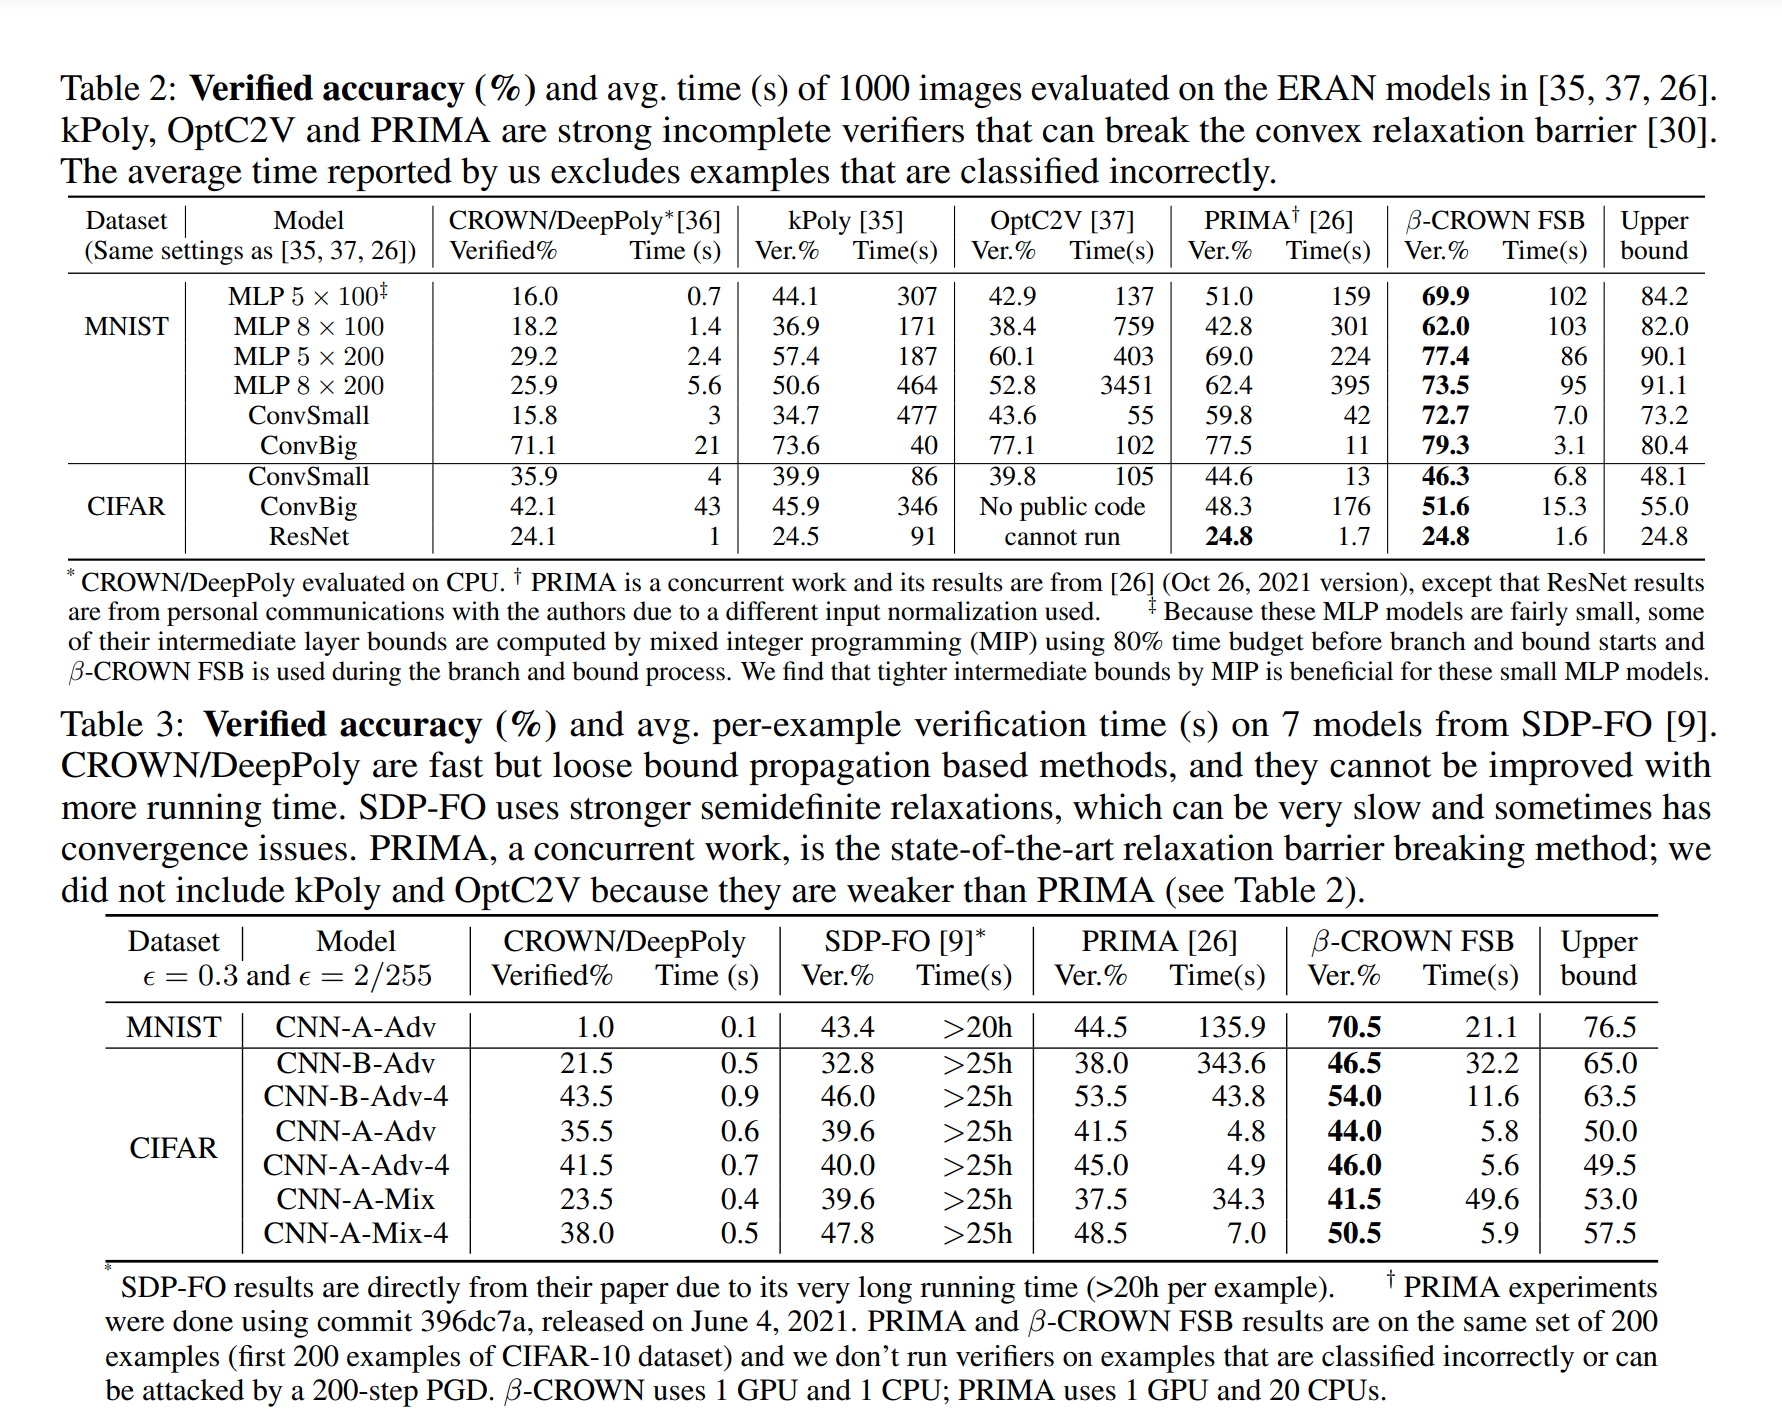
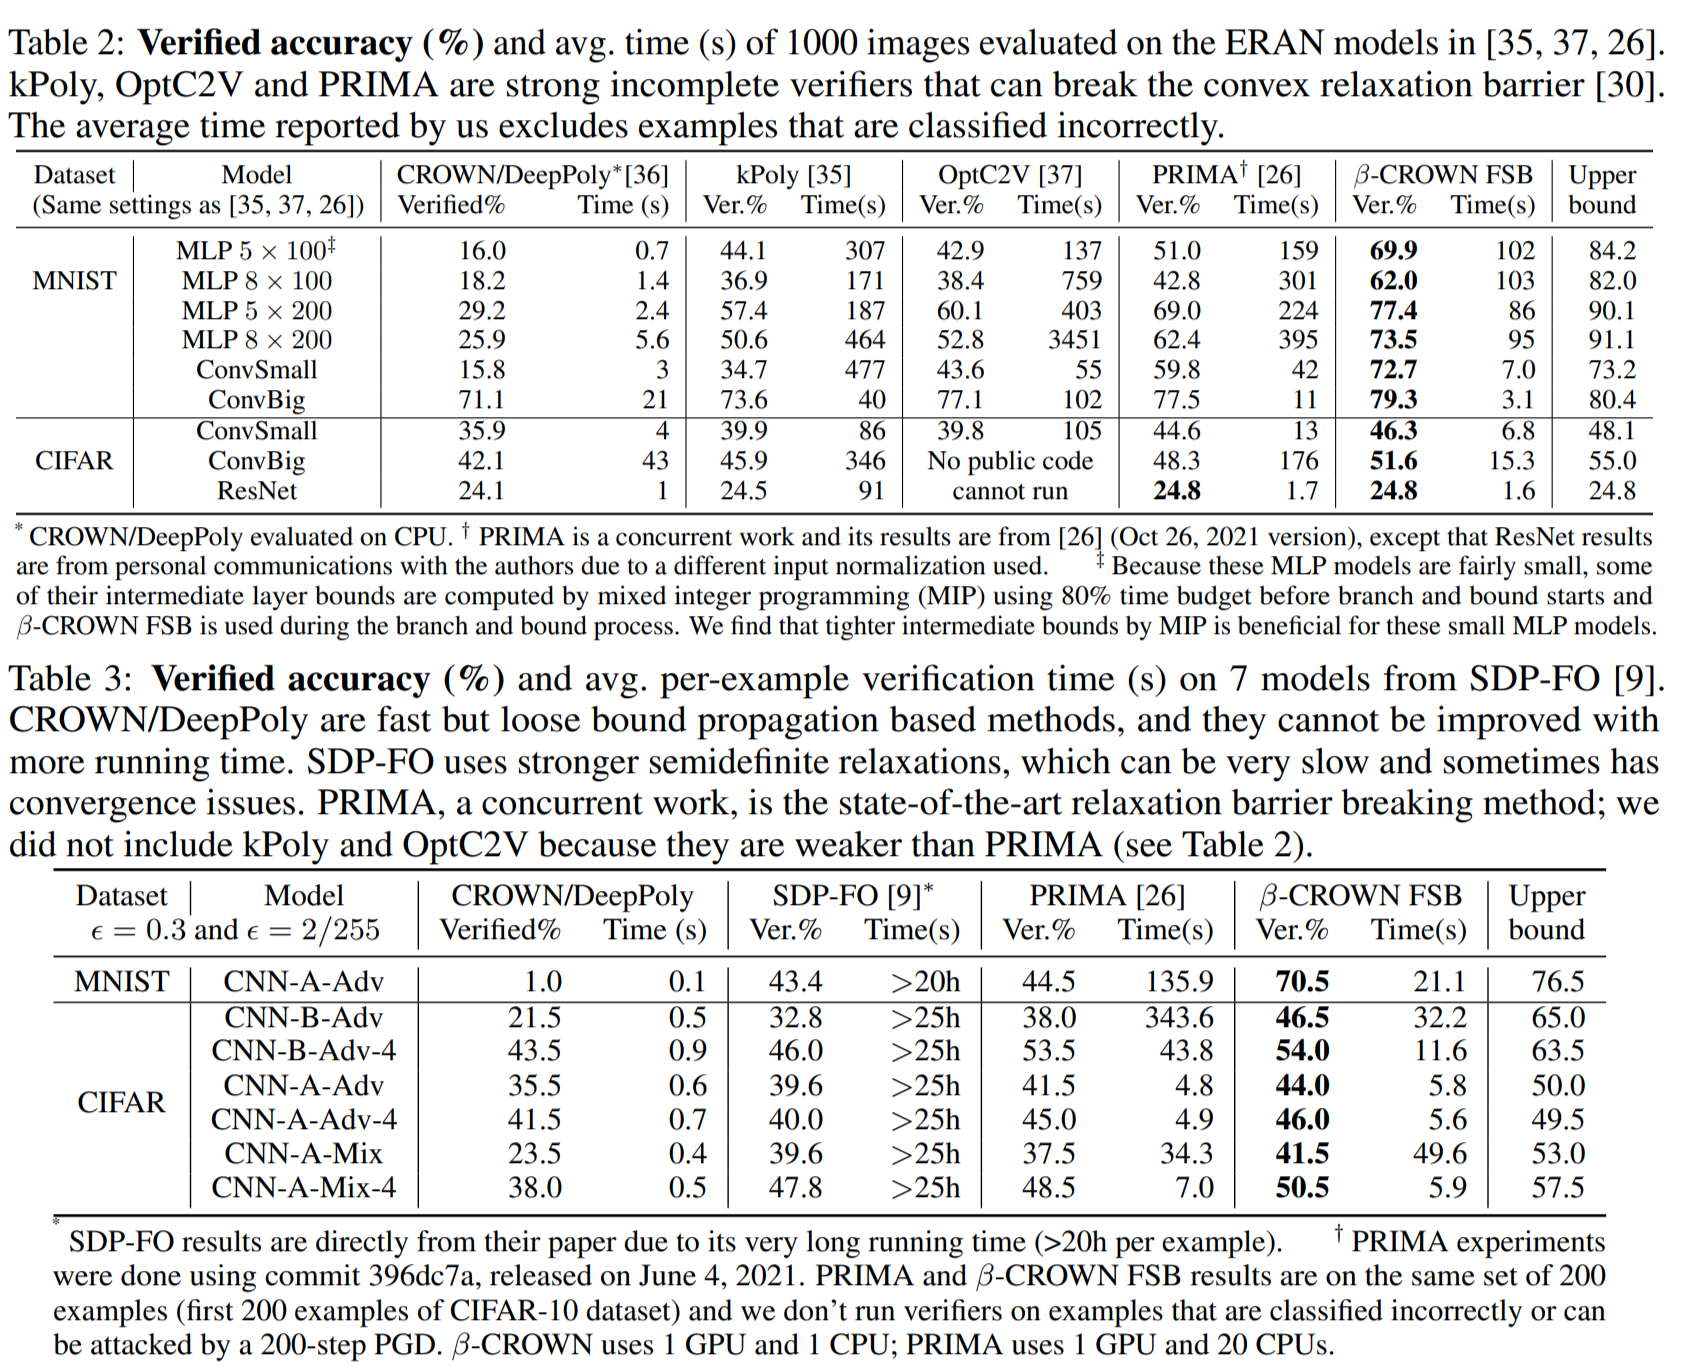
update

diff --git a/ICLR25/proofs.tex b/ICLR25/proofs.tex
@@ -14,6 +14,8 @@ PRIMA is one of ERAN's major verifier. Its authors have shown its performance in
 Basically, PRIMA is slightly less accuracy and slower than $\alpha,\beta$-Crown for several networks we considered. Here, we directly use the tables from $\alpha,\beta$-Crown's paper:
 
 \begin{figure*}[h]
+	\centering
+	\caption{Tables from \cite{crown} to compare $\alpha,\beta$-Crown with earlier verifiers}
 	\includegraphics[scale=0.32]{Cronw_PRIMA.png}
 \end{figure*}
 
@@ -23,12 +25,14 @@ Basically, PRIMA is slightly less accuracy and slower than $\alpha,\beta$-Crown 
 
 Basically, MnBAB's performance is close to $\alpha,\beta$-Crown with several kinds of networks. 
 \begin{figure}[h]
+	\centering
+	\caption{text}
 	\includegraphics[scale=0.32]{ToMNBAB.png}
 \end{figure}
 
 However, the experiments section in their paper does not include those network we focus on. So we run MnBAB on several networks on our device. The comparison is as follows:
 
-\begin{table}[b!]
+\begin{table}[h]
 	\centering
 	\begin{tabular}{||l|c|c||c|c||}
 		\hline
